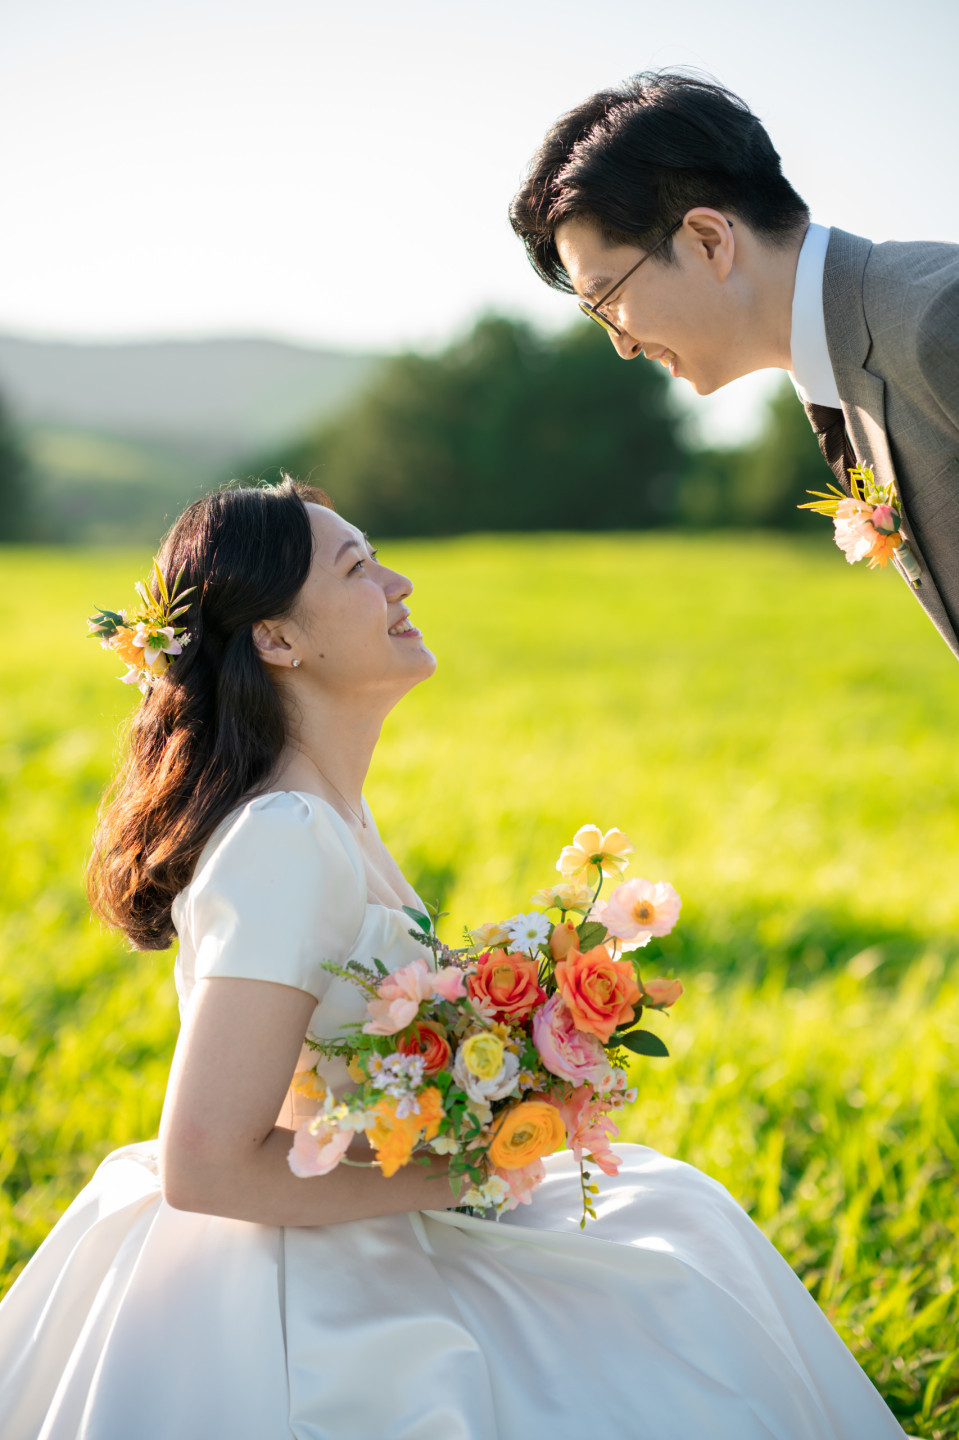
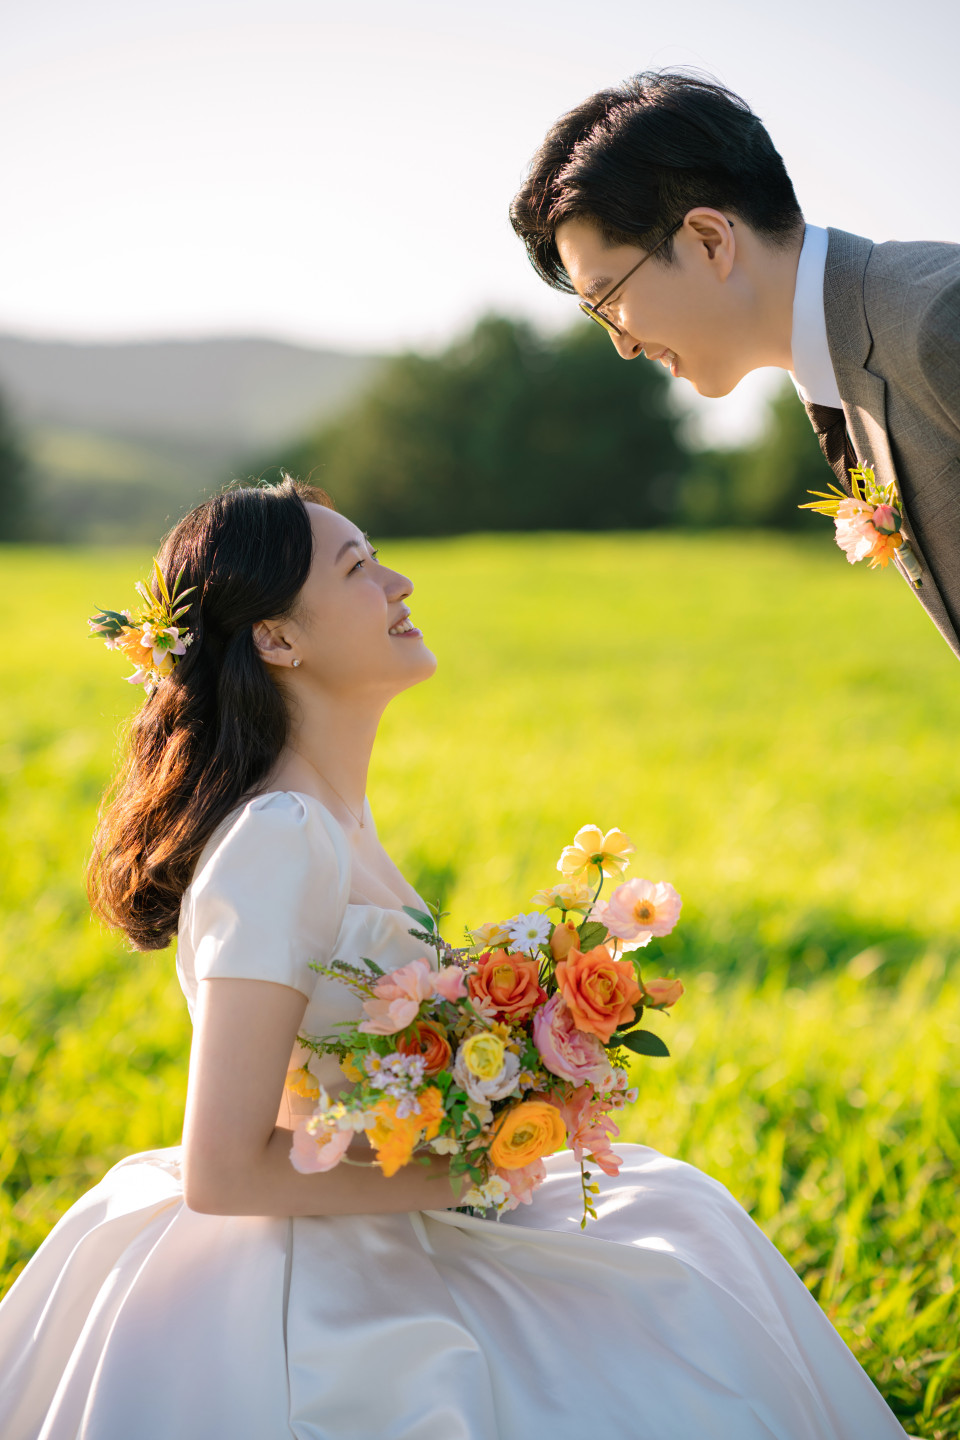
갤러리 이미지 하나 변경

diff --git a/index.html b/index.html
@@ -114,8 +114,8 @@
                 </a>
             </div>
             <div class="vimg">
-                <a target="_blank" href="./images/gallery/R_F03916.jpg" data-lightbox="gallery">
-                    <img src="./images/gallery/thumbnail/R_F03916.jpg">
+                <a target="_blank" href="./images/gallery/R_F04030.jpg" data-lightbox="gallery">
+                    <img src="./images/gallery/thumbnail/R_F04030.jpg">
                 </a>
             </div>
             <div class="vimg">
